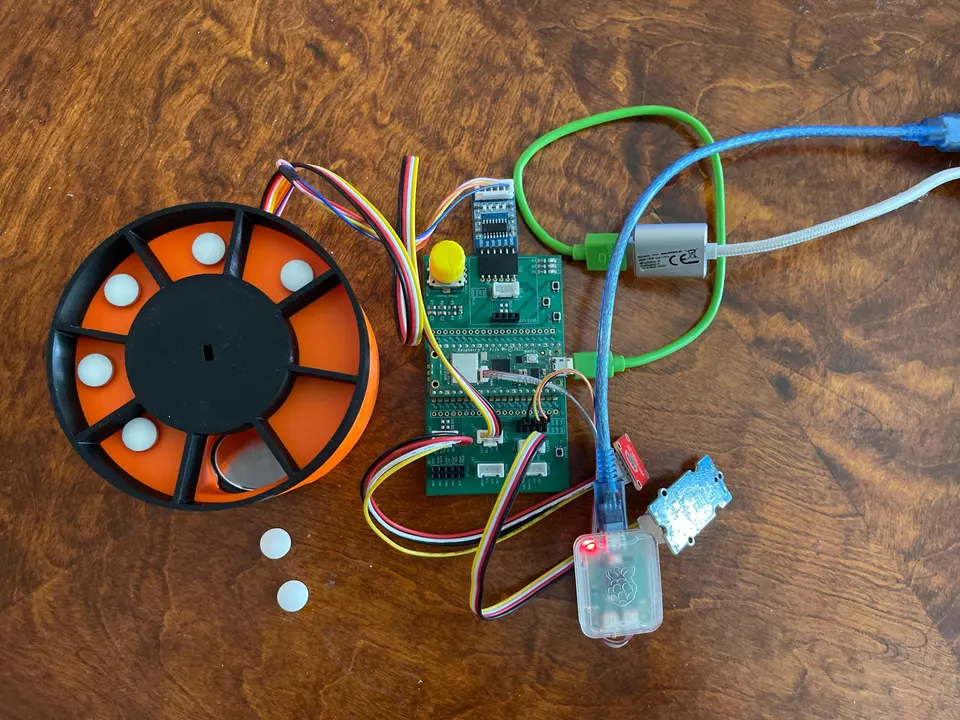
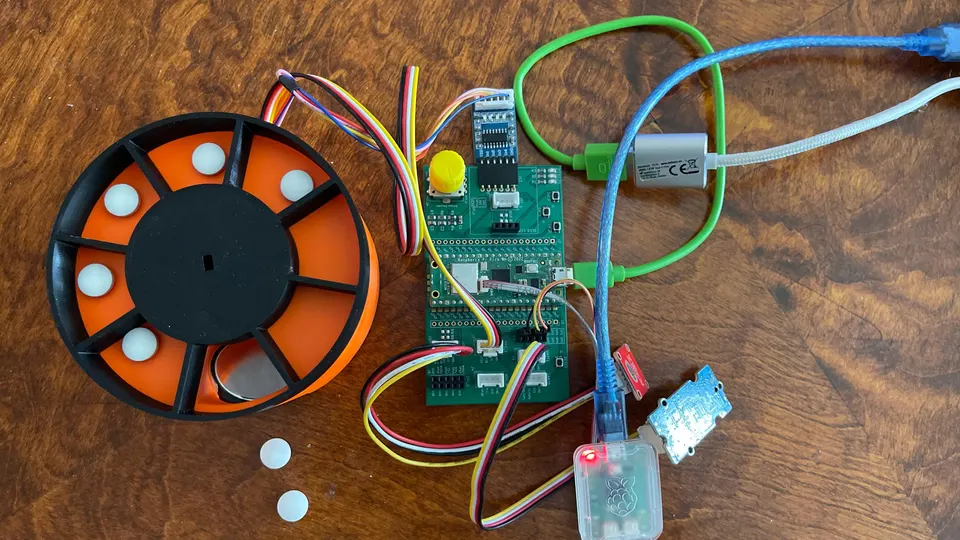
Crop pill dispenser project image

diff --git a/components/portfolio-panel-content.tsx b/components/portfolio-panel-content.tsx
@@ -284,7 +284,7 @@ const PROJECT_CARD_MEDIA: Record<
     src: "/portfolio/project-pill-dispenser-hardware.jpg",
     cardSrc: "/portfolio/thumbs/project-pill-dispenser-hardware.webp",
     alt: "Raspberry Pi Pico pill dispenser hardware setup with dispenser wheel, sensors and wiring",
-    mode: "contain",
+    mode: "cover",
     backdrop: "#3a2416",
   },
   "metropolia-login-ui": {